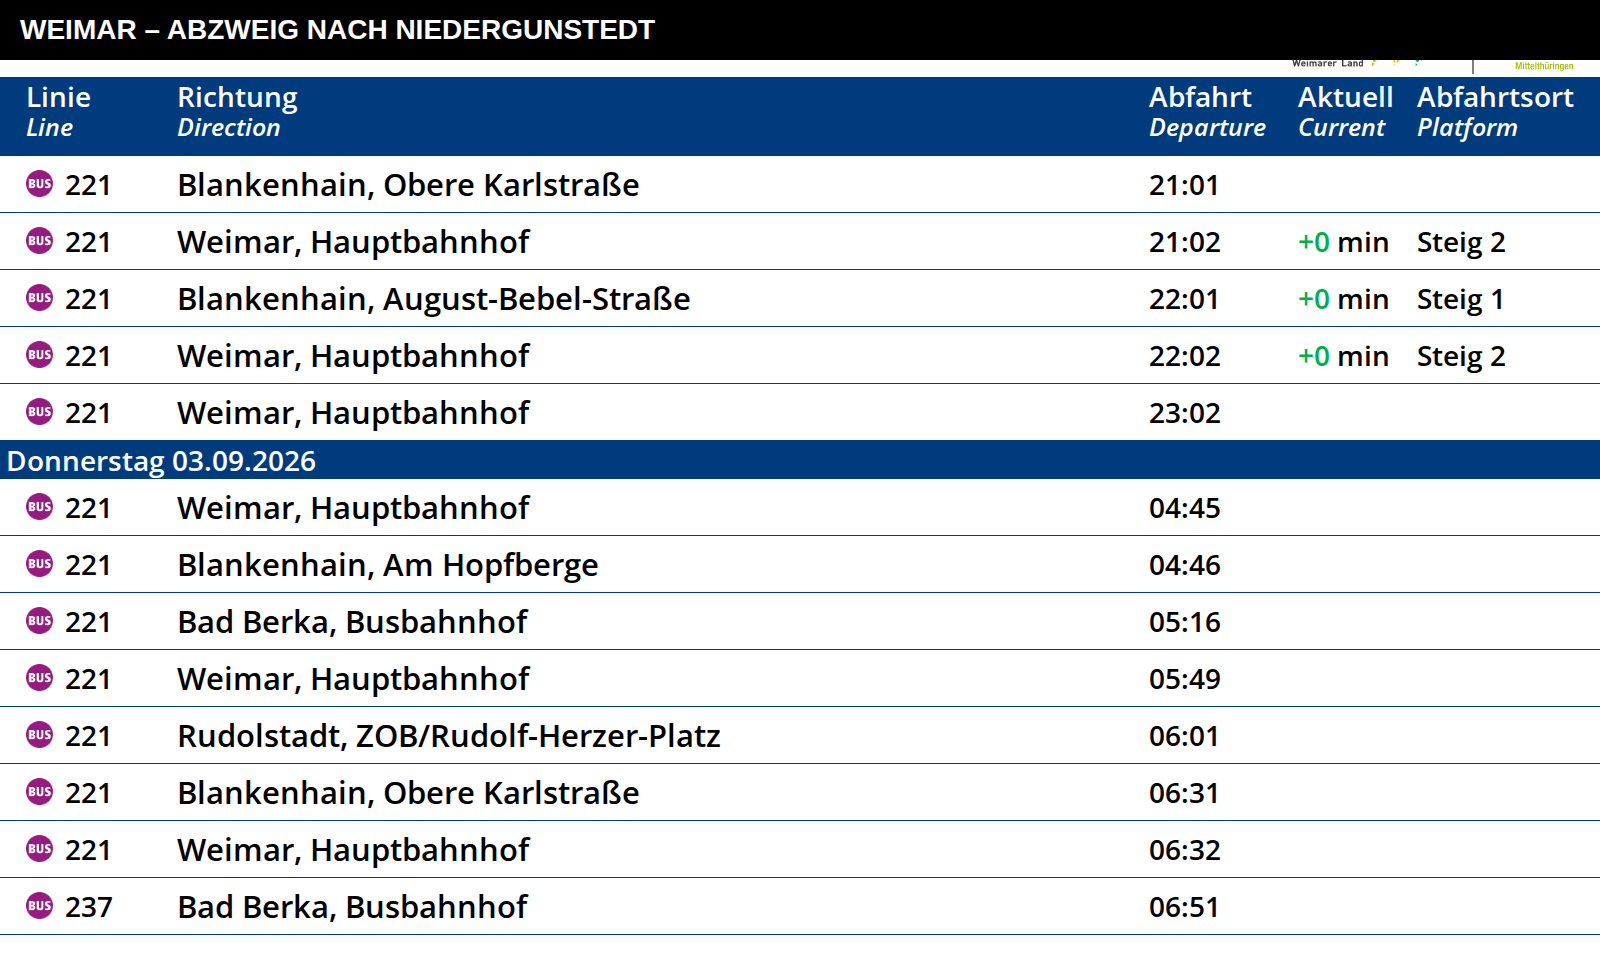
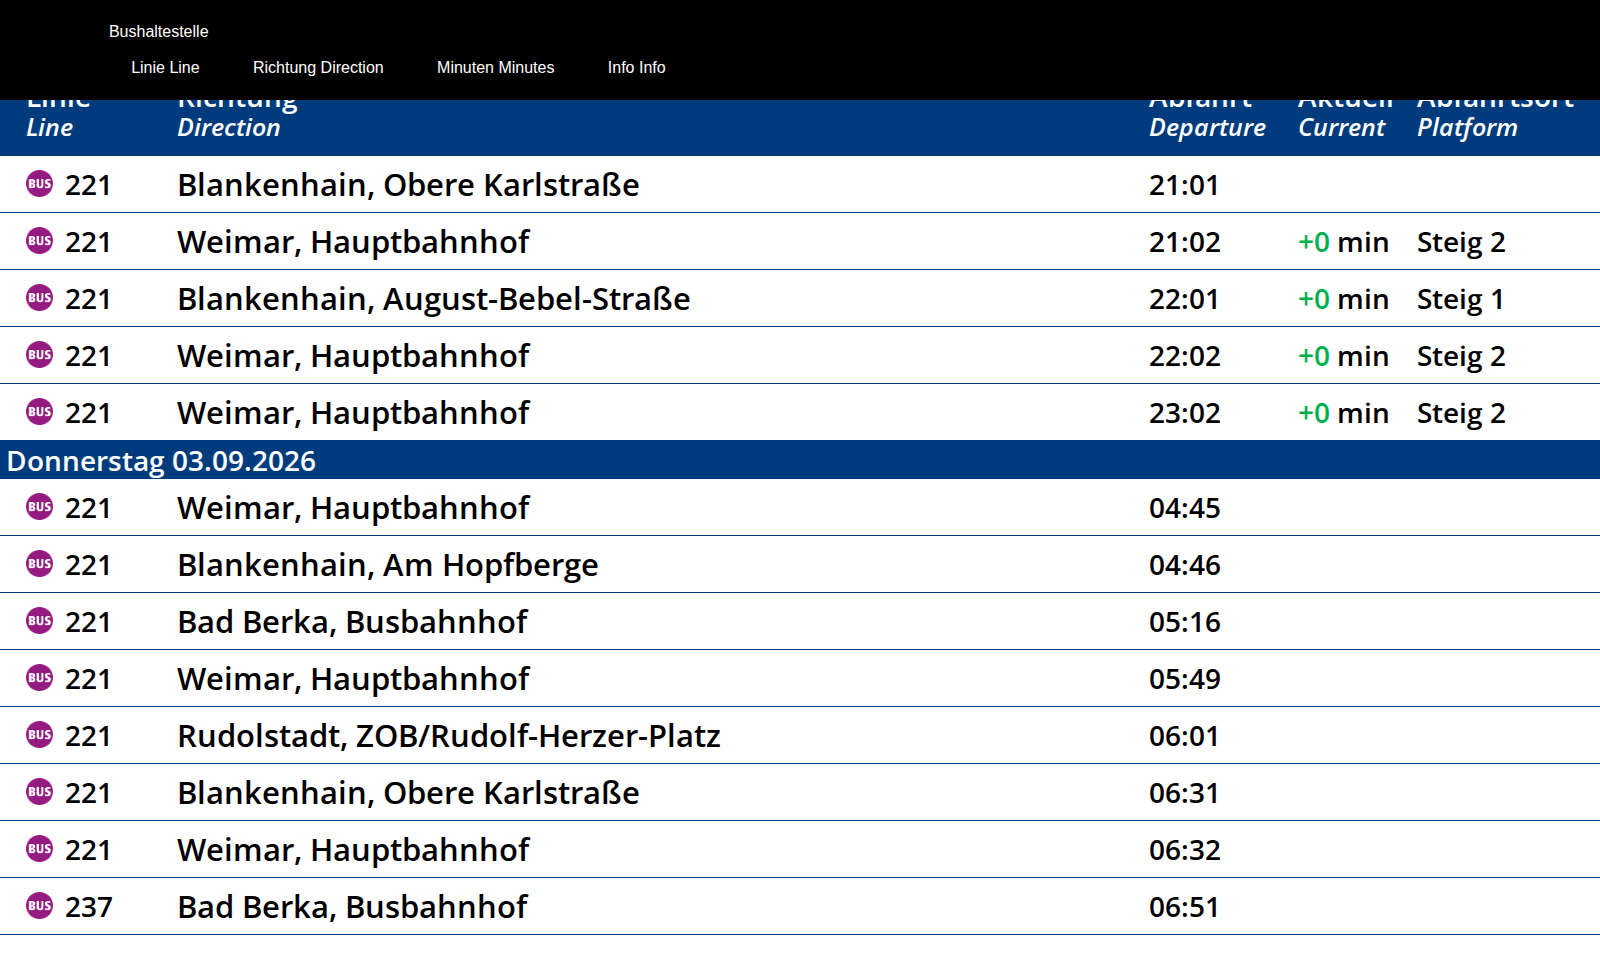
deploy: da9917f0865059dca3fd355d5b6dfd3998f4b3af

Changed region(s): [[0.0, 0.0, 1.0, 0.125], [0.8125, 0.4062, 0.9375, 0.4688]]

diff --git a/capture.js b/capture.js
@@ -1,105 +1,220 @@
 const { chromium } = require('playwright');
 
-// ==============================
+// ============================================================
 // HEADER SETTINGS
-// ==============================
+// ============================================================
 const HEADER = {
-  enabled: true,
+  enabled: true,
 
-  text: 'WEIMAR – ABZWEIG NACH NIEDERGUNSTEDT',
+  // First row
+  line1: 'Bushaltestelle',
 
-  height: 60,              // Header height in px
-  background: '#000000',   // Header background
-  textColor: '#FFFFFF',    // Text color
-  fontSize: 28             // Text size in px
+  // Second row
+  line2HTML: `
+    Linie <span class="english">Line</span>
+    &nbsp;&nbsp;
+    Richtung <span class="english">Direction</span>
+    &nbsp;&nbsp;
+    Minuten <span class="english">Minutes</span>
+    &nbsp;&nbsp;
+    Info <span class="english">Info</span>
+  `,
+
+  // Header appearance
+  height: 100,             // Header height in pixels
+  background: '#000000',   // Header background color
+  textColor: '#FFFFFF',    // Text color
+
+  // Font sizes
+  line1FontSize: 30,       // First row
+  line2FontSize: 20        // Second row
 };
 
 
-// ==============================
+// ============================================================
 // CAPTURE
-// ==============================
+// ============================================================
 (async () => {
-  const browser = await chromium.launch();
 
-  const page = await browser.newPage({
-    viewport: {
-      width: 1600,
-      height: 960
-    }
-  });
+  const browser = await chromium.launch();
 
-  // Navigate to HAFAS
-  await page.goto(
-    'https://vmt.hafas.cloud/mct/views/monitor/index.html?cfgFile=Bb01FAozvVHK2oWN7hjA_1612186328552',
-    {
-      waitUntil: 'networkidle'
-    }
-  );
+  const page = await browser.newPage({
+    viewport: {
+      width: 1600,
+      height: 960
+    }
+  });
 
-  // Wait for live bus rows to render
-  await page.waitForTimeout(5000);
+  // ==========================================================
+  // OPEN HAFAS
+  // ==========================================================
+  await page.goto(
+    'https://vmt.hafas.cloud/mct/views/monitor/index.html?cfgFile=Bb01FAozvVHK2oWN7hjA_1612186328552',
+    {
+      waitUntil: 'networkidle'
+    }
+  );
 
-
-  // ==============================
-  // ADD HEADER
-  // ==============================
-  if (HEADER.enabled) {
-
-    await page.evaluate((header) => {
-
-      // Create header
-      const bar = document.createElement('div');
-
-      bar.id = 'github-capture-header';
-
-      bar.innerText = header.text;
-
-      // Header styling
-      Object.assign(bar.style, {
-        position: 'fixed',
-        top: '0',
-        left: '0',
-        width: '100%',
-        height: `${header.height}px`,
-        background: header.background,
-        color: header.textColor,
-        fontSize: `${header.fontSize}px`,
-        fontFamily: 'Arial, Helvetica, sans-serif',
-        fontWeight: 'bold',
-        display: 'flex',
-        alignItems: 'center',
-        justifyContent: 'flex-start',
-        paddingLeft: '20px',
-        boxSizing: 'border-box',
-        zIndex: '999999',
-        lineHeight: '1',
-        overflow: 'hidden',
-        whiteSpace: 'nowrap'
-      });
-
-      document.body.appendChild(bar);
+  // Wait for live bus rows to render
+  await page.waitForTimeout(5000);
 
 
-      // Push the HAFAS page down
-      document.body.style.paddingTop = `${header.height}px`;
-      document.body.style.boxSizing = 'border-box';
+  // ==========================================================
+  // ADD HEADER
+  // ==========================================================
+  if (HEADER.enabled) {
 
-    }, HEADER);
-  }
+    await page.evaluate((header) => {
 
+      // ------------------------------------------------------
+      // Header element
+      // ------------------------------------------------------
+      const bar = document.createElement('div');
 
-  // Small delay so browser renders injected header
-  await page.waitForTimeout(500);
-
-
-  // ==============================
-  // SAVE SCREENSHOT
-  // ==============================
-  await page.screenshot({
-    path: 'latest.png',
-    type: 'png'
-  });
+      bar.id = 'github-capture-header';
 
 
-  await browser.close();
+      // ------------------------------------------------------
+      // Header content
+      // ------------------------------------------------------
+      bar.innerHTML = `
+        <div class="header-content">
+
+          <div class="header-line1">
+            ${header.line1}
+          </div>
+
+          <div class="header-line2">
+            ${header.line2HTML}
+          </div>
+
+        </div>
+      `;
+
+
+      // ------------------------------------------------------
+      // Header styling
+      // ------------------------------------------------------
+      Object.assign(bar.style, {
+
+        position: 'fixed',
+
+        top: '0',
+        left: '0',
+
+        width: '100%',
+        height: `${header.height}px`,
+
+        background: header.background,
+        color: header.textColor,
+
+        fontFamily: 'Arial, Helvetica, sans-serif',
+
+        display: 'flex',
+        alignItems: 'center',
+
+        boxSizing: 'border-box',
+
+        paddingLeft: '20px',
+
+        zIndex: '999999',
+
+        overflow: 'hidden'
+
+      });
+
+
+      // ------------------------------------------------------
+      // Add CSS for header text
+      // ------------------------------------------------------
+      const style = document.createElement('style');
+
+      style.textContent = `
+
+        #github-capture-header .header-content {
+
+          display: flex;
+
+          flex-direction: column;
+
+          justify-content: center;
+
+          width: 100%;
+
+          height: 100%;
+
+        }
+
+
+        #github-capture-header .header-line1 {
+
+          font-size: ${header.line1FontSize}px;
+
+          font-weight: bold;
+
+          line-height: 1.1;
+
+        }
+
+
+        #github-capture-header .header-line2 {
+
+          font-size: ${header.line2FontSize}px;
+
+          font-weight: bold;
+
+          line-height: 1.1;
+
+        }
+
+
+        #github-capture-header .english {
+
+          font-style: italic;
+
+          font-weight: normal;
+
+        }
+
+      `;
+
+
+      document.head.appendChild(style);
+
+      document.body.appendChild(bar);
+
+
+      // ------------------------------------------------------
+      // Make room for the header
+      // ------------------------------------------------------
+      document.body.style.paddingTop =
+        `${header.height}px`;
+
+      document.body.style.boxSizing = 'border-box';
+
+    }, HEADER);
+
+  }
+
+
+  // ==========================================================
+  // WAIT FOR HEADER TO RENDER
+  // ==========================================================
+  await page.waitForTimeout(500);
+
+
+  // ==========================================================
+  // SAVE SCREENSHOT
+  // ==========================================================
+  await page.screenshot({
+    path: 'latest.png',
+    type: 'png'
+  });
+
+
+  // ==========================================================
+  // CLOSE BROWSER
+  // ==========================================================
+  await browser.close();
+
 })();
